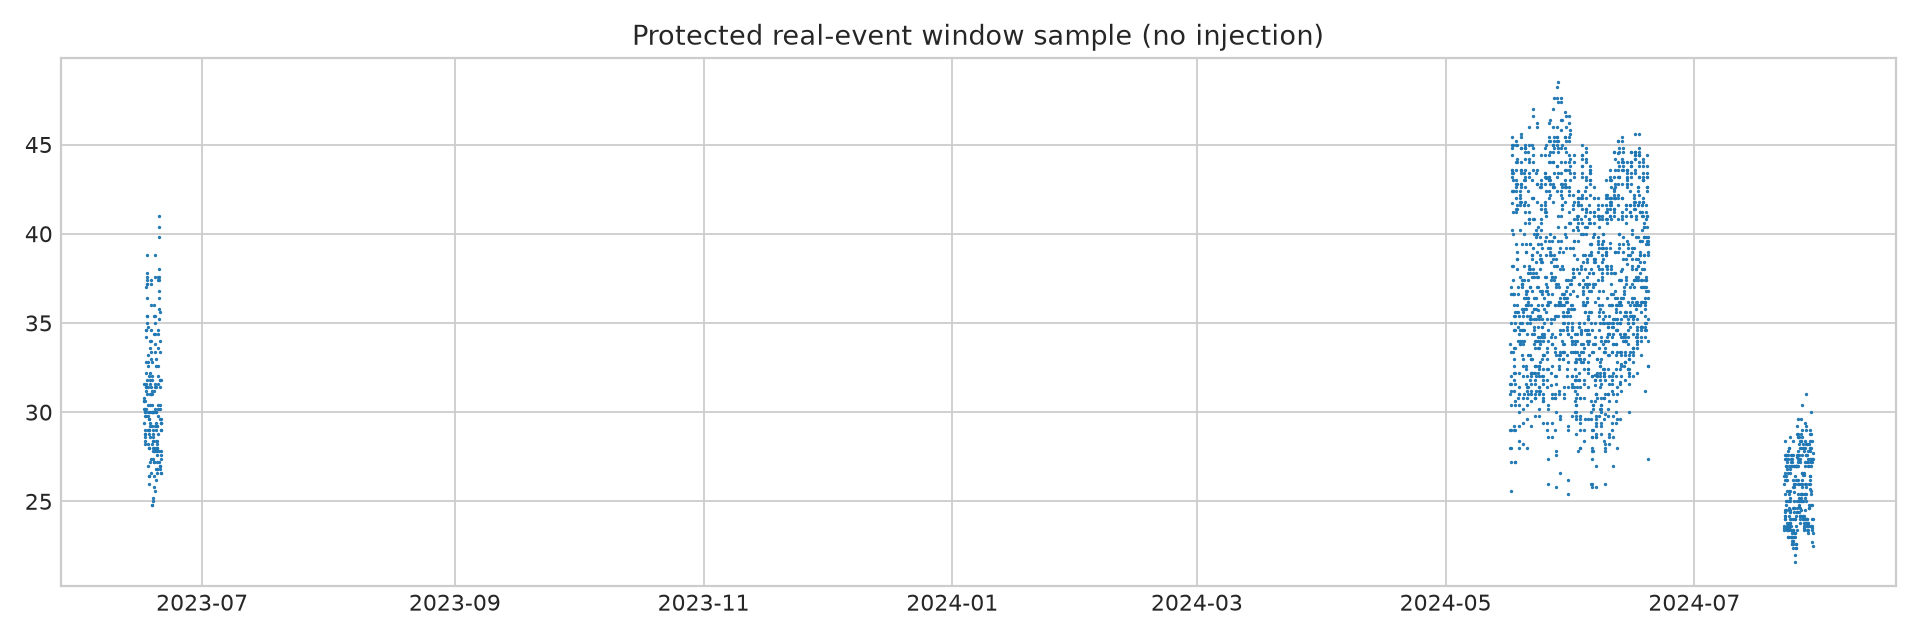
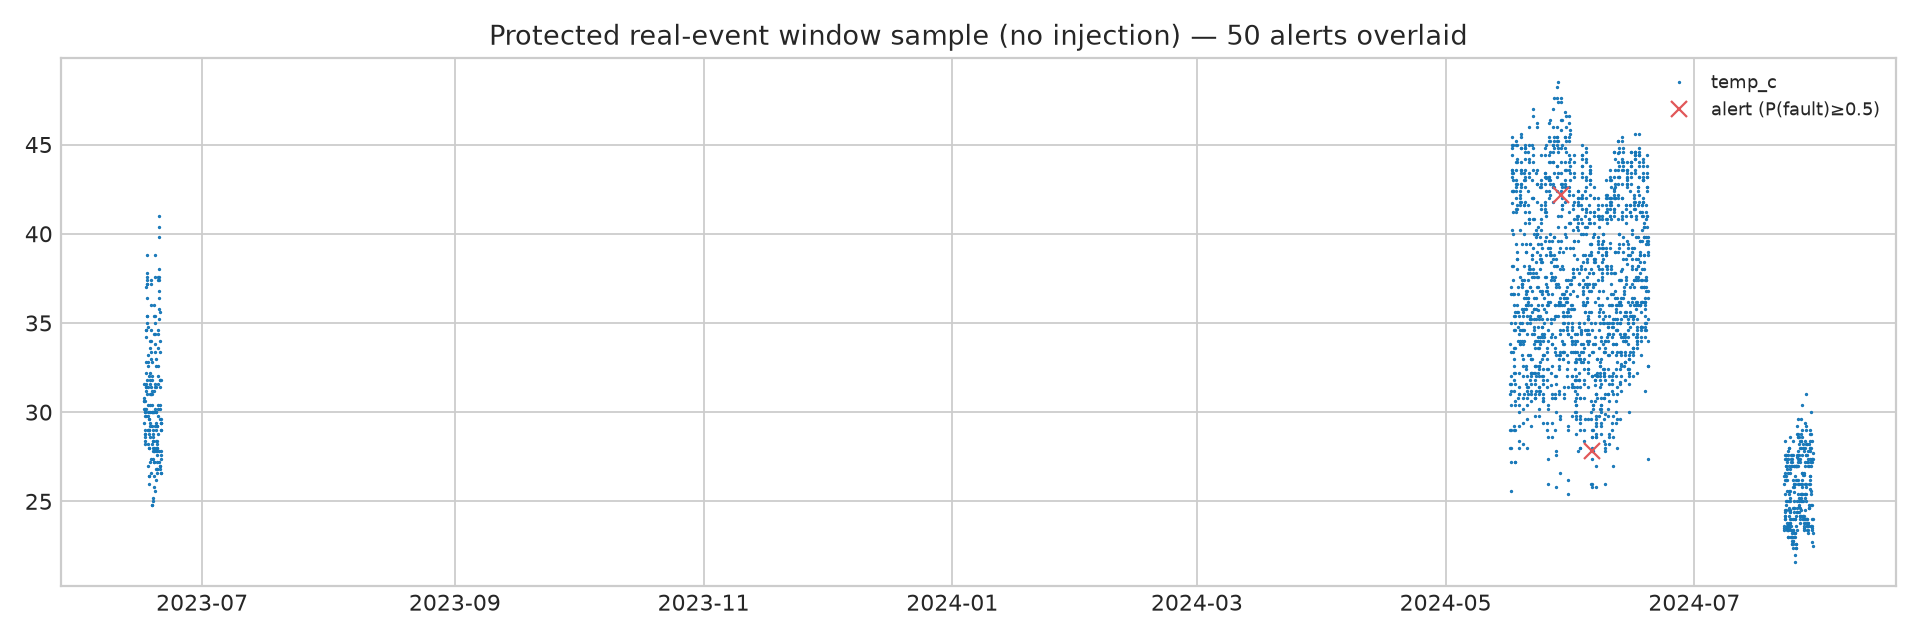
Overlay alerts on heatwave figure with alert count; regenerate all figures
heatwave_no_injection.png plotted raw temp_c only, with no indication of
whether the model false-alarms inside protected windows. Now overlays an X
marker at every protected-window row where P(fault)>=0.5 and puts the count
in the title. All 5 figures are regenerated against the current pipeline
(injector rate/bounds, fair baselines, new metrics, SHAP explanations from
prior commits).

Changed region(s): [[0.25, 0.0312, 0.7812, 0.0938], [0.875, 0.125, 0.9688, 0.1875], [0.8125, 0.6875, 0.8438, 0.7188]]

diff --git a/src/run_step2.py b/src/run_step2.py
@@ -207,7 +207,10 @@ fig,ax=plt.subplots(figsize=(8,7)); im=ax.imshow(cm_total, cmap='Blues'); ax.set
 sample=inj[inj.injected_faults.str.len()>0].head(1).station_id.iloc[0]; eg=inj[inj.station_id==sample].head(300); fig,ax=plt.subplots(3,1,figsize=(12,7),sharex=True); 
 for a,v in zip(ax,VARS): a.plot(eg.time_utc,eg[v],lw=.8); a.set_ylabel(v)
 fig.suptitle(f'Example injected station {sample}'); fig.tight_layout(); fig.savefig(OUT/'figures/example_fault_spans.png',dpi=160); plt.close(fig)
-fig,ax=plt.subplots(figsize=(12,4)); pwin=inj[protected]; ax.plot(pwin.time_utc,pwin.temp_c,'.',ms=1); ax.set_title('Protected real-event window sample (no injection)'); fig.tight_layout(); fig.savefig(OUT/'figures/heatwave_no_injection.png',dpi=160); plt.close(fig)
+fig,ax=plt.subplots(figsize=(12,4)); pwin=inj[protected]; ax.plot(pwin.time_utc,pwin.temp_c,'.',ms=1,color='#1677b8',label='temp_c')
+alert_mask=protected&(all_pred>=.5); n_alerts=int(alert_mask.sum())
+if n_alerts: ax.plot(inj.loc[alert_mask,'time_utc'],inj.loc[alert_mask,'temp_c'],'x',ms=7,color='#e15759',label='alert (P(fault)≥0.5)')
+ax.legend(loc='upper right',fontsize=8); ax.set_title(f'Protected real-event window sample (no injection) — {n_alerts} alerts overlaid'); fig.tight_layout(); fig.savefig(OUT/'figures/heatwave_no_injection.png',dpi=160); plt.close(fig)
 # benchmark report
 lines=['# SkyGuard AI benchmark report','', '## Run configuration','', '- 3-hourly cadence; 1 step = 3 h; lags 1/2/4/8; rolling windows 1/8.', '- Grouped 5-fold cross-validation by station; mean and standard deviation reported.', '- LightGBM models capped at 200 trees; LSTM and edge skipped under free-plan scope.', '- Faults injected outside cluster-specific protected windows; native source gaps are not F7 labels.', '', '## Data and injector','', f"- Injected rows: {len(inj):,}; labelled fault observations: {len(labels):,}; stations: {inj.station_id.nunique()}; protected rows: {protected.sum():,}.", f"- Label counts: {metrics['label_counts']}.", f"- F2 duration: 4–24 steps (12–72 h); F5: 4–80 steps (12 h–10 days); F7: 1–8 steps.", '', '## Metrics (fold mean ± std)','', '| Metric | Mean | Std | |\n|---|---:|---:|']
 for n in ['precision','recall','f1','macro_f1','t0_f1','iforest_f1','trivial_f1','ece_raw','ece_calibrated','no_T1_f1','no_T2_f1','no_T3_f1']:

diff --git a/outputs/benchmark_report.md b/outputs/benchmark_report.md
@@ -48,7 +48,7 @@ Macro-F1 across F1–F9 (OOF): **0.4060**.
 
 ## Scoring latency
 
-- p50: 0.937 ms; p95: 1.154 ms (timed row-by-row on fold 0's test set, n=500).
+- p50: 1.086 ms; p95: 1.970 ms (timed row-by-row on fold 0's test set, n=500).
 
 ## False alarms in protected windows (P(fault) >= 0.5)
 
